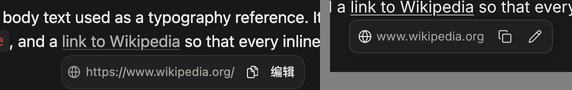
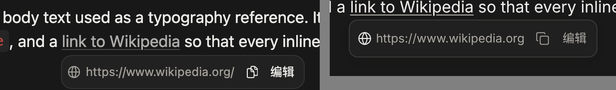
parity: slash filter ranking (word-prefix, keyword specificity), keyboard focus ring, toggle-heading hints, link hover full URL + 编辑

Changed region(s): [[0.0, 0.0, 1.0, 1.0]]

diff --git a/packages/app/src/editor/catalog.ts b/packages/app/src/editor/catalog.ts
@@ -28,7 +28,7 @@ export const BLOCK_KINDS: BlockKind[] = [
   { id: 'bulleted', type: 'bulleted_list', label: () => t('b.bulleted'), icon: 'bullet', keywords: ['bulleted list', 'bullet', 'unordered', 'ul', '-'], hint: '-', turnInto: true },
   { id: 'numbered', type: 'numbered_list', label: () => t('b.numbered'), icon: 'numbered', keywords: ['numbered list', 'ordered', 'ol', '1.'], hint: '1.', turnInto: true },
   { id: 'todo', type: 'to_do', label: () => t('b.todo'), icon: 'todo', keywords: ['to-do list', 'todo', 'checkbox', 'task', '[]'], hint: '[]', turnInto: true },
-  { id: 'toggle', type: 'toggle', label: () => t('b.toggle'), icon: 'toggle', keywords: ['toggle list', 'collapse', 'expand', '>'], hint: '>', turnInto: true },
+  { id: 'toggle', type: 'toggle', label: () => t('b.toggle'), icon: 'toggle', keywords: ['toggle list', 'toggle', 'collapse', 'expand', '>'], hint: '>', turnInto: true },
   { id: 'page', type: 'page', label: () => t('b.page'), icon: 'page', keywords: ['page', 'subpage', 'yemian'], special: 'page', turnInto: true },
   { id: 'callout', type: 'callout', label: () => t('b.callout'), icon: 'callout', keywords: ['callout', 'note', 'tip', 'biaozhu'], turnInto: true },
   { id: 'quote', type: 'quote', label: () => t('b.quote'), icon: 'quote', keywords: ['quote', 'blockquote', 'citation', '"'], hint: '"', turnInto: true },
@@ -43,16 +43,16 @@ export const BLOCK_KINDS: BlockKind[] = [
   { id: 'synced', type: 'synced', label: () => t('b.synced'), icon: 'synced', keywords: ['synced block', 'sync', 'transclusion'], turnInto: true },
   { id: 'toc', type: 'table_of_contents', label: () => t('b.toc'), icon: 'toc', keywords: ['table of contents', 'toc', 'outline'] },
   { id: 'breadcrumb', type: 'breadcrumb', label: () => t('b.breadcrumb'), icon: 'breadcrumb', keywords: ['breadcrumb', 'path'] },
-  { id: 'toggleH1', type: 'header', label: () => t('b.toggleH1'), icon: 'th1', keywords: ['toggle heading 1', 'toggle h1', '>#'], toggleable: true, hint: '>#', turnInto: true },
-  { id: 'toggleH2', type: 'sub_header', label: () => t('b.toggleH2'), icon: 'th2', keywords: ['toggle heading 2', 'toggle h2', '>##'], toggleable: true, hint: '>##', turnInto: true },
-  { id: 'toggleH3', type: 'sub_sub_header', label: () => t('b.toggleH3'), icon: 'th3', keywords: ['toggle heading 3', 'toggle h3', '>###'], toggleable: true, hint: '>###', turnInto: true },
-  { id: 'toggleH4', type: 'header_4', label: () => t('b.toggleH4'), icon: 'th4', keywords: ['toggle heading 4', 'toggle h4'], toggleable: true, turnInto: true },
+  { id: 'toggleH1', type: 'header', label: () => t('b.toggleH1'), icon: 'th1', keywords: ['toggle heading 1', '>#'], toggleable: true, hint: '# >', turnInto: true },
+  { id: 'toggleH2', type: 'sub_header', label: () => t('b.toggleH2'), icon: 'th2', keywords: ['toggle heading 2', '>##'], toggleable: true, hint: '## >', turnInto: true },
+  { id: 'toggleH3', type: 'sub_sub_header', label: () => t('b.toggleH3'), icon: 'th3', keywords: ['toggle heading 3', '>###'], toggleable: true, hint: '### >', turnInto: true },
+  { id: 'toggleH4', type: 'header_4', label: () => t('b.toggleH4'), icon: 'th4', keywords: ['toggle heading 4'], toggleable: true, turnInto: true },
   { id: 'columns2', type: 'column_list', label: () => t('b.columns2'), icon: 'columns', keywords: ['2 columns', 'two columns', 'columns', 'layout'], special: 'columns2' },
   { id: 'columns3', type: 'column_list', label: () => t('b.columns3'), icon: 'columns3', keywords: ['3 columns', 'three columns', 'columns'], special: 'columns3' },
   { id: 'columns4', type: 'column_list', label: () => t('b.columns4'), icon: 'columns', keywords: ['4 columns', 'four columns'], special: 'columns4' },
   { id: 'mentionPerson', type: 'text', label: () => t('b.mentionPerson'), icon: 'at', keywords: ['mention person', 'person', 'user', '@'], special: 'mentionPerson' },
   { id: 'mentionPage', type: 'text', label: () => t('b.mentionPage'), icon: 'pageLink', keywords: ['mention page', 'page link', '[['], special: 'mentionPage' },
-  { id: 'date', type: 'text', label: () => t('b.date'), icon: 'calendar', keywords: ['date', 'reminder', 'today', 'tomorrow', 'now'], special: 'date' },
+  { id: 'date', type: 'text', label: () => t('b.date'), icon: 'calendar', keywords: ['date', 'reminder', 'now', '@today'], special: 'date' },
   { id: 'emoji', type: 'text', label: () => t('b.emoji'), icon: 'smile', keywords: ['emoji', 'emoticon', ':'], special: 'emoji' },
   { id: 'aiNotes', type: 'text', label: () => t('b.aiNotes'), icon: 'aiNotes', keywords: ['ai meeting notes', 'ai notes', 'transcribe', 'meeting', 'suji'], special: 'ai' },
   { id: 'embed', type: 'embed', label: () => t('b.embed'), sub: () => t('b.embedSub'), badge: () => t('b.badgeNew'), icon: 'embedHtml', keywords: ['html', 'embed', 'iframe', 'qianru'] },
@@ -78,9 +78,15 @@ export function kindOfBlock(type: BlockType, toggleable?: boolean): BlockKind | 
 export function matches(k: BlockKind, q: string): number {
   const s = q.trim().toLowerCase(); if (!s) return 1;
   const label = k.label().toLowerCase();
-  if (label.startsWith(s)) return 3;
-  if (label.includes(s)) return 2;
-  if (k.keywords.some((w) => w.startsWith(s))) return 2;
-  if (k.keywords.some((w) => w.includes(s))) return 1;
-  return 0;
+  if (label.startsWith(s)) return 200 - label.length;
+  if (label.includes(s)) return 150 - label.length;
+  // keyword matches rank by how specific (short) the matching keyword is
+  let best = 0;
+  for (const w of k.keywords) {
+    let sc = 0;
+    if (w.startsWith(s) || w.split(/[\s-]+/).some((p) => p.startsWith(s))) sc = 100 - Math.min(99, w.length);
+    else if (s.length >= 3 && w.includes(s)) sc = 20 - Math.min(19, w.length);
+    best = Math.max(best, sc);
+  }
+  return best;
 }

diff --git a/packages/app/src/styles/app.css b/packages/app/src/styles/app.css
@@ -419,6 +419,7 @@ body.is-dragging-blocks .ink-handles { opacity: 0; }
 .ink-slash-label { margin: 6px 0 8px; padding: 0 8px 1px; font-size: 12px; line-height: 14.4px; font-weight: 500; color: var(--ink-text-secondary); }
 .ink-slash-item { display: flex; align-items: center; gap: 8px; height: 32px; width: 316px; padding: 0 8px; border-radius: 6px; cursor: pointer; flex: none; }
 .ink-slash-item.is-active { background: var(--ink-background-interactive-translucent); }
+.ink-slash-item.is-active.is-kbd { background: transparent; box-shadow: inset 0 0 0 2px #2383E2; }
 .ink-slash-icon { width: 20px; height: 20px; display: flex; align-items: center; justify-content: center; color: var(--ink-icon-primary); flex: none; }
 .ink-slash-text { flex: 1; min-width: 0; white-space: nowrap; overflow: hidden; text-overflow: ellipsis; }
 .ink-slash-hint { color: var(--ink-text-tertiary); font-size: 12px; white-space: nowrap; }
@@ -498,7 +499,8 @@ body.is-dragging-blocks .ink-handles { opacity: 0; }
 /* link popover / hover */
 .ink-link-hover { display: flex; align-items: center; gap: 4px; padding: 4px 4px 4px 8px; background: var(--ink-background-elevated); border-radius: 8px; box-shadow: var(--ink-shadow-outline-md); font-size: 12px; max-width: 400px; }
 .ink-link-hover-url { color: var(--ink-text-secondary); white-space: nowrap; overflow: hidden; text-overflow: ellipsis; margin-right: 4px; }
-.ink-link-hover-btn { padding: 2px 6px; border-radius: 4px; white-space: nowrap; }
+.ink-link-hover-btn { padding: 2px 6px; border-radius: 4px; white-space: nowrap; font-weight: 500; color: var(--ink-text-secondary); cursor: pointer; }
+.ink-link-hover-btn.is-icon { padding: 3px; display: flex; }
 .ink-link-hover-btn:hover { background: var(--ink-background-interactive-translucent); }
 .ink-eq-editor { display: flex; gap: 8px; align-items: flex-start; padding: 8px; background: var(--ink-background-elevated); border-radius: 10px; box-shadow: var(--ink-shadow-outline-lg); width: 380px; }
 .ink-eq-input { flex: 1; min-height: 60px; resize: vertical; font-family: var(--ink-font-mono); font-size: 13px; border-radius: 6px; border: 0; padding: 6px 8px; box-shadow: inset 0 0 0 1px var(--ink-border-primary-translucent); background: var(--ink-background-secondary-translucent); color: var(--ink-text-primary); outline: none; }

diff --git a/packages/app/src/editor/inline-menus.tsx b/packages/app/src/editor/inline-menus.tsx
@@ -93,6 +93,7 @@ function InlineHost({ close }: { close: () => void }) {
 /* ---------------- slash ---------------- */
 function SlashMenu({ s, close }: { s: Session; close: () => void }) {
   const [active, setActive] = useState(0);
+  const [kbd, setKbd] = useState(false);
   const listRef = useRef<HTMLDivElement>(null);
   const misses = useRef(0);
   const sections = useMemo(() => {
@@ -109,8 +110,8 @@ function SlashMenu({ s, close }: { s: Session; close: () => void }) {
     applyKind(c.blockId, k, c.title, c.at);
   };
   keyHandler = (e) => {
-    if (e.key === 'ArrowDown') { setActive((a) => (a + 1) % Math.max(1, flat.length)); return true; }
-    if (e.key === 'ArrowUp') { setActive((a) => (a - 1 + flat.length) % Math.max(1, flat.length)); return true; }
+    if (e.key === 'ArrowDown') { setKbd(true); setActive((a) => (a + 1) % Math.max(1, flat.length)); return true; }
+    if (e.key === 'ArrowUp') { setKbd(true); setActive((a) => (a - 1 + flat.length) % Math.max(1, flat.length)); return true; }
     if (e.key === 'Enter' || e.key === 'Tab') { const it = flat[active]; if (it) { choose(it.k); return true; } close(); return false; }
     if (e.key === 'Escape') { close(); return true; }
     return false;
@@ -127,7 +128,7 @@ function SlashMenu({ s, close }: { s: Session; close: () => void }) {
               {sec.items.map((k) => {
                 idx++; const my = idx;
                 return (
-                  <div key={sec.id + k.id} role="option" className={'ink-slash-item' + (my === active ? ' is-active' : '')} onMouseMove={() => setActive(my)} onMouseDown={(e) => { e.preventDefault(); choose(k); }}>
+                  <div key={sec.id + k.id} role="option" className={'ink-slash-item' + (my === active ? ' is-active' + (kbd ? ' is-kbd' : '') : '')} onMouseMove={() => { setKbd(false); setActive(my); }} onMouseDown={(e) => { e.preventDefault(); choose(k); }}>
                     <span className="ink-slash-icon"><Icon name={k.icon} size={20} stroke={1.5} /></span>
                     <span className="ink-slash-text">{k.label()}{k.sub && <span className="ink-slash-sub"> · {k.sub()}</span>}{k.badge && <span className="ink-badge-new">{k.badge()}</span>}</span>
                     {k.hint && <span className="ink-slash-hint">{k.hint}</span>}

diff --git a/packages/app/src/editor/link-popover.tsx b/packages/app/src/editor/link-popover.tsx
@@ -85,14 +85,14 @@ export function attachLinkHover(root: HTMLElement) {
       openPopover({ id: 'link-hover', anchor: a.getBoundingClientRect(), placement: 'bottom-start', offset: 4, noFocus: true, render: () => (
         <div className="ink-link-hover" onMouseLeave={() => closePopover('link-hover')}>
           <Icon name="globe" size={14} stroke={1.7} />
-          <span className="ink-link-hover-url">{href.replace(/^https?:\/\//, '')}</span>
-          <span className="ink-link-hover-btn" role="button" onClick={() => { navigator.clipboard?.writeText(href).catch(() => {}); }}><Icon name="copy" size={14} /></span>
+          <span className="ink-link-hover-url">{href}</span>
+          <span className="ink-link-hover-btn is-icon" role="button" title={t('ed.linkCopy')} onClick={() => { navigator.clipboard?.writeText(href).catch(() => {}); }}><Icon name="copy" size={14} /></span>
           <span className="ink-link-hover-btn" role="button" onClick={() => {
             const ed = a.closest<HTMLElement>('[data-editable-id]'); if (!ed) return;
             const id = ed.dataset.editableId!; const b = store.get(id)!;
             const text = a.textContent || ''; const all = (b.title || []).map((s) => s[0]).join('');
             const s = all.indexOf(text); closePopover('link-hover'); if (s >= 0) openLinkPopover(id, s, s + text.length);
-          }}><Icon name="pencil" size={14} /></span>
+          }}>{t('ed.linkEdit')}</span>
         </div>
       ) });
     }, 450);
